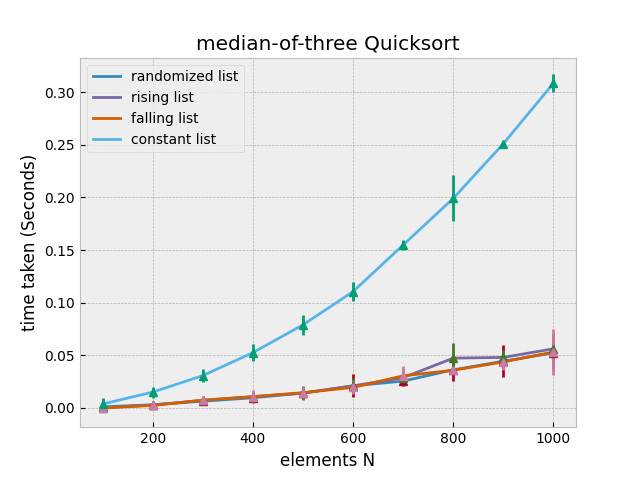
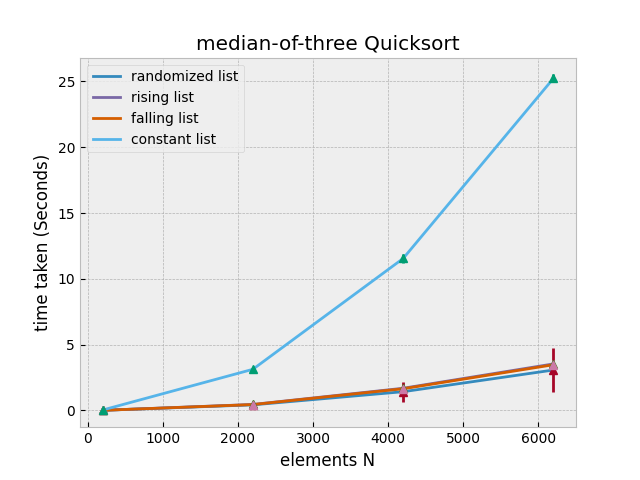
oh my god we are almost done. now all we need to do is make big O graphs and lay them over our graphs

diff --git a/main.py b/main.py
@@ -4,9 +4,7 @@ import numpy as np
 
 sys.setrecursionlimit(320000)  # for our sake
 
-generate_results(insertion_sort, "insertion sort", 1000, 9001, 1000)
-
-# We currently have this really bothersome issue: measure_time() doesnt work for insertion_sort and specifically ONLY
+# We currently have this really bothersome issue: measure_time() doesn't work for insertion_sort and specifically ONLY
 # insertion sort. Why??
 
 # borrowed code from the following github repo:
@@ -16,13 +14,13 @@ generate_results(insertion_sort, "insertion sort", 1000, 9001, 1000)
 plt.style.use('bmh')
 
 # Set up runtime comparisons
-n = np.linspace(1, 5, 1000)
+n = np.linspace(1, 6, 1000)
 labels = ['Constant', 'Logarithmic', 'Linear', 'Log Linear', 'Quadratic', 'Cubic', 'Exponential']
 big_o = [np.ones(n.shape), np.log(n), n, n * np.log(n), n ** 2, n ** 3, 2 ** n]
 
 # Plot setup
 plt.figure(figsize=(12, 10))
-plt.ylim(0, 100)
+plt.ylim(0, 50)
 
 for i in range(len(big_o)):
     plt.plot(n, big_o[i], label=labels[i])
@@ -34,99 +32,22 @@ plt.savefig('big-o-notation.png')
 
 plt.show()
 
-generate_results(sorted, "python sorted function", 10000, 50001, 10000)
-
-generate_results(mergesort, "merge sort", 100, 1001, 100)
-
-generate_results(median_of_three_quicksort, "median-of-three Quicksort", 100, 1001, 100)
-
-generate_results(right_pivot_quicksort, "right-pivot quicksort", 100, 1001, 100)
-
-generate_results(quicksort, "quicksort", 100, 1001, 100)
-
-generate_results(bubblesort, "bubble sort", 100, 1001, 100)
-
-generate_results(selection_sort, "selection sort", 100, 1001, 100)
-
-generate_results(insertion_sort, "insertion sort", 100, 1001, 100)
+generate_results(sorted, "python sorted function", 20000, 100001, 20000)
+print()
+generate_results(mergesort, "merge sort", 20000, 100001, 20000)
+print()
+generate_results(median_of_three_quicksort, "median-of-three Quicksort", 200, 8001, 2000)
+print()
+generate_results(right_pivot_quicksort, "right-pivot quicksort", 200, 8001, 2000)
+print()
+generate_results(quicksort, "quicksort", 200, 8001, 2000)
+print()
+generate_results(bubblesort, "bubble sort", 200, 8001, 2000)
+print()
+generate_results(selection_sort, "selection sort", 200, 8001, 2000)
+print()
+generate_results(insertion_sort, "insertion sort", 200, 8001, 2000)
 
 print("finished!")
 
 # sorted() uses timsort, a type of hybrid algorithm
-
-"""
-elements = []
-times = []
-stddevs = []
-
-list_of_measurements = []
-print("quicksort with randomized arrays of varying sizes")
-print("N        median          stddev")
-
-for x in range(1000, 5000, 500):
-    list_of_measurements.append(measure_time(quicksort, "random", x))
-
-
-for i in list_of_measurements:
-    elements.append(i.elements)
-    times.append(i.median)
-    stddevs.append(i.deviation)
-
-plt.plot(elements, times, label="randomized list")
-plt.errorbar(elements, times, stddevs, linestyle='none', marker='^')
-
-elements.clear()
-times.clear()
-stddevs.clear()
-
-list_of_measurements.clear()
-for x in range(1000, 5000, 500):
-    list_of_measurements.append(measure_time(quicksort, "rising", x))
-
-for i in list_of_measurements:
-    elements.append(i.elements)
-    times.append(i.median)
-    stddevs.append(i.deviation)
-
-plt.plot(elements, times, label='rising list')
-plt.errorbar(elements, times, stddevs, linestyle='none', marker='^')
-
-elements.clear()
-times.clear()
-stddevs.clear()
-
-list_of_measurements.clear()
-for x in range(1000, 5000, 500):
-    list_of_measurements.append(measure_time(quicksort, "falling", x))
-
-for i in list_of_measurements:
-    elements.append(i.elements)
-    times.append(i.median)
-    stddevs.append(i.deviation)
-
-plt.plot(elements, times, label='falling list')
-plt.errorbar(elements, times, stddevs, linestyle='none', marker='^')
-
-elements.clear()
-times.clear()
-stddevs.clear()
-
-list_of_measurements.clear()
-for x in range(1000, 5000, 500):
-    list_of_measurements.append(measure_time(quicksort, "constant", x))
-
-for i in list_of_measurements:
-    elements.append(i.elements)
-    times.append(i.median)
-    stddevs.append(i.deviation)
-
-plt.plot(elements, times, label='constant list')
-plt.errorbar(elements, times, stddevs, linestyle='none', marker='^')
-
-
-plt.xlabel('elements N')
-plt.ylabel('time taken (Seconds)')
-plt.title("quicksort algorithm")
-plt.legend()
-plt.show()
-"""

diff --git a/implemented_algorithms.py b/implemented_algorithms.py
@@ -17,7 +17,7 @@ def run_algorithm(func, array):
     # will then append the time taken to an array.
     # returns the median of all elements inside the array
     sort_times = []
-    for i in range(10):
+    for i in range(5):
         start = time.time()
         func(array)
         end = time.time()
@@ -45,7 +45,7 @@ def measure_time(func, array_type, size):
 
     results = run_algorithm(func, array)  # measure_time() should return a SortingResult object
     # Containing all that good stuff we like. We're going to use this to plot a graph afterward.
-    print(results.elements, results.median, results.deviation, ' 10')
+    print(results.elements, results.median, results.deviation, ' 5')
 
     return results
 
